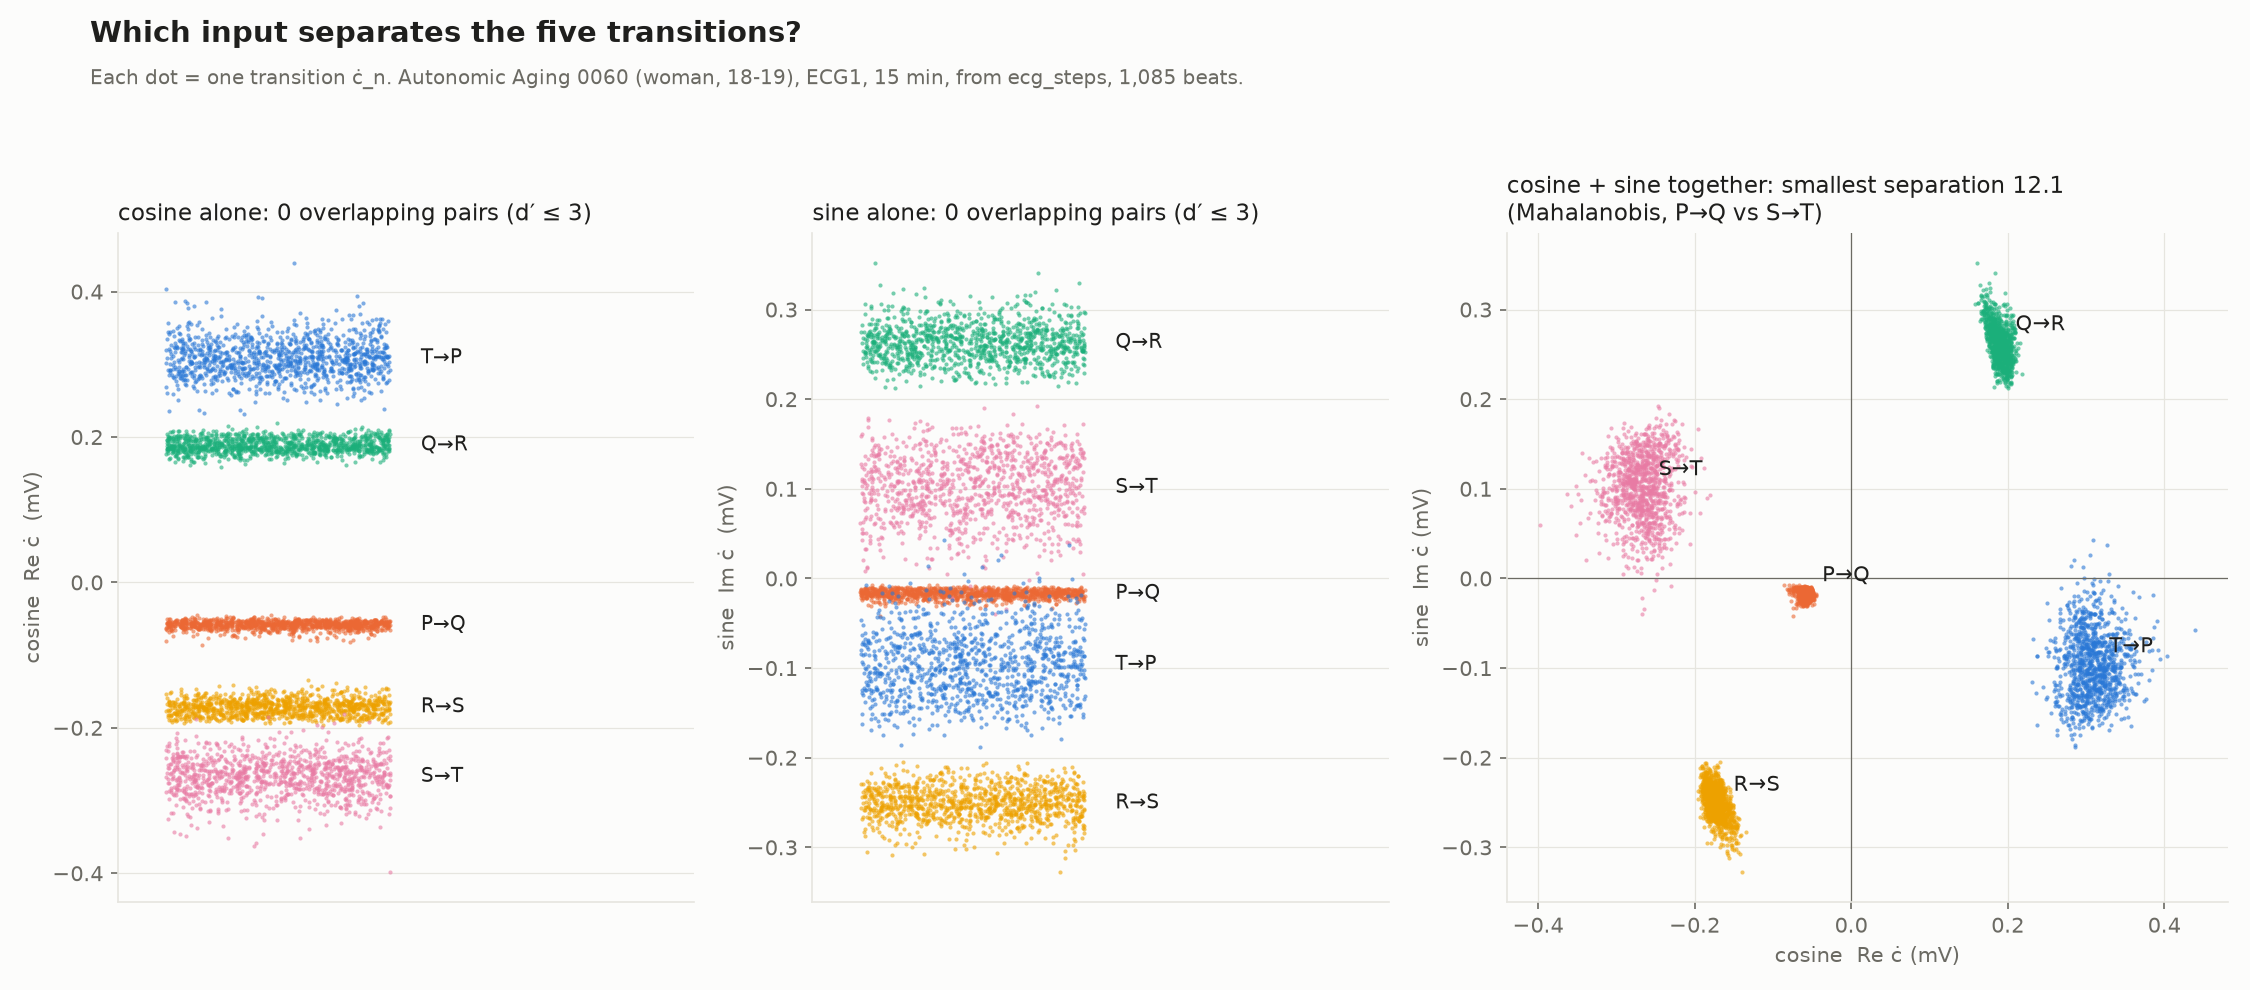
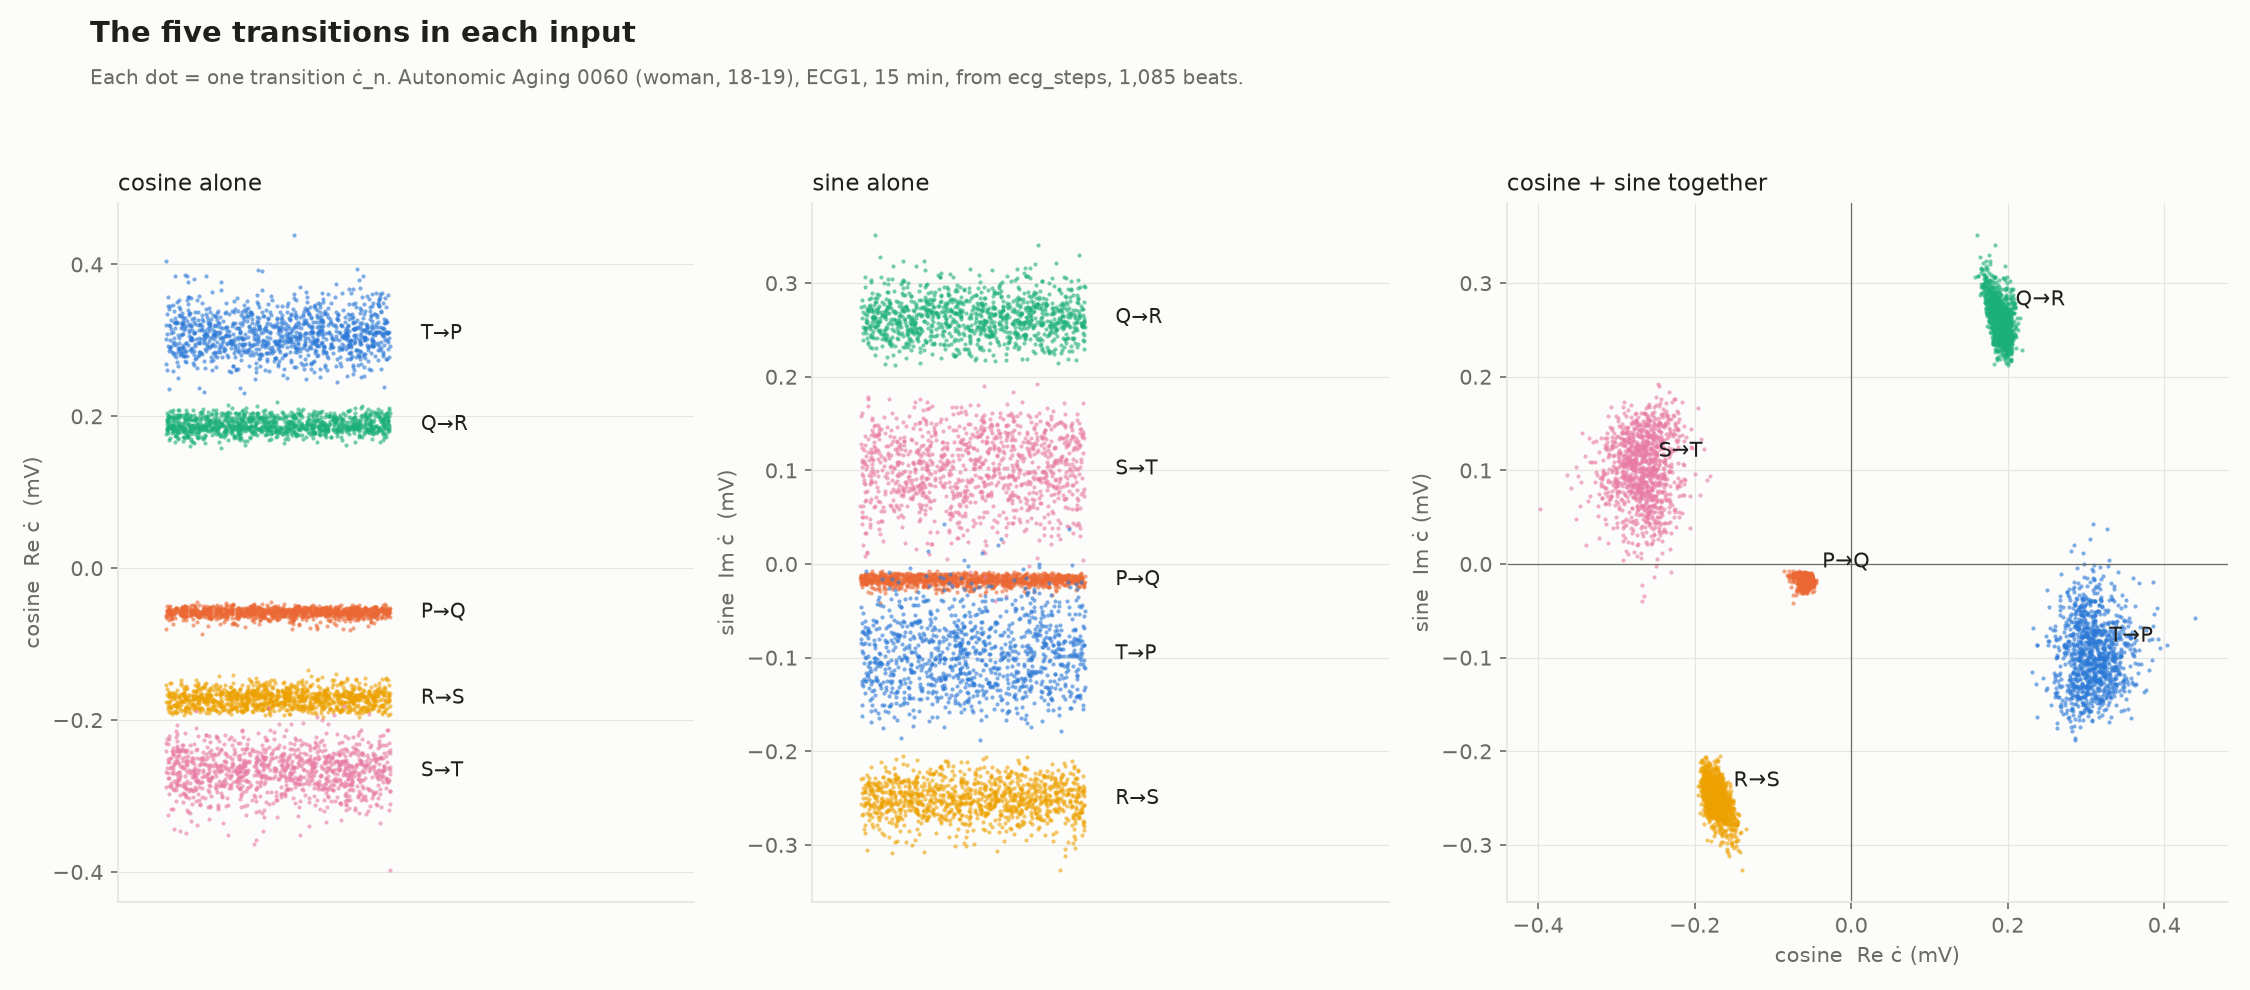
update

diff --git a/complex-events/aging/make_aging_figures.py b/complex-events/aging/make_aging_figures.py
@@ -173,10 +173,7 @@ def main(rid, quiet=False):
         merged = [(p, q) for p, q in itertools.combinations(TR, 2) if dprime(col, p, q) <= 3]
         summary[col] = merged
         a.set_xlim(-.5, 1.3); a.set_xticks([]); a.set_ylabel(f"{lab}  (mV)", color=MUTE)
-        a.set_title(f"{'cosine' if i == 0 else 'sine'} alone: "
-                    f"{len(merged)} overlapping pair{'s' if len(merged) != 1 else ''} (d′ ≤ 3)"
-                    + ("\n" + "; ".join(f"{p} / {q}" for p, q in merged) if merged else ""),
-                    loc="left", color=INK, fontsize=11)
+        a.set_title(f"{'cosine' if i == 0 else 'sine'} alone", loc="left", color=INK, fontsize=11)
     a = fig.add_subplot(gs[2]); style(a, False); a.grid(color=GRID, lw=.6)
     a.axhline(0, color=MUTE, lw=.6); a.axvline(0, color=MUTE, lw=.6)
     for tr in TR:
@@ -190,9 +187,8 @@ def main(rid, quiet=False):
         e[e.transition == q][["cdot_cos", "cdot_sin"]].values)), p, q)
         for p, q in itertools.combinations(TR, 2))
     a.set_xlabel("cosine  Re ċ (mV)", color=MUTE); a.set_ylabel("sine  Im ċ (mV)", color=MUTE)
-    a.set_title(f"cosine + sine together: smallest separation {best[0]:.1f}\n"
-                f"(Mahalanobis, {best[1]} vs {best[2]})", loc="left", color=INK, fontsize=11)
-    head(fig, "Which input separates the five transitions?",
+    a.set_title("cosine + sine together", loc="left", color=INK, fontsize=11)
+    head(fig, "The five transitions in each input",
          f"Each dot = one transition ċ_n. {src}, {d.k.nunique():,} beats.")
     fig.tight_layout(rect=(0, 0, 1, 0.9)); save(fig, out / "fig7_cdot_levels.png", dpi=150,
                                                       facecolor=BG); plt.close()
@@ -207,8 +203,7 @@ def main(rid, quiet=False):
     a1.plot(Ck.index, np.abs(Ck.C), color="#1baf7a", lw=.8); a1.set_ylabel("|C_k|  (mV)", color=MUTE)
     a2.plot(Ck.index, Ck.RR, color=INK, lw=.8); a2.set_ylabel("RR  (ms)", color=MUTE)
     a2.set_xlabel("cycle index k", color=MUTE)
-    head(fig, f"|C_k| follows the rhythm — corr(|C|, RR) = {rho:+.2f}",
-         f"{rho_r:+.2f} with the 1/r prefactor removed (|C|·r). {src}.")
+    head(fig, "|C_k| and RR, beat by beat", f"{src}.")
     fig.tight_layout(rect=(0, 0, 1, 0.9)); save(fig, out / "fig8_absC_RR.png", dpi=150,
                                                       facecolor=BG); plt.close()
 
